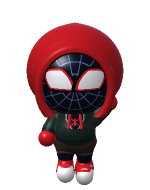
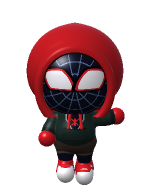
Pet: tiny toy blocks, web shot from his hand, dizzy landings more often

Changed region(s): [[0.64, 0.5, 0.8533, 0.6842], [0.6133, 0.5526, 0.6933, 0.6053]]

diff --git a/spidy/ui/pet.py b/spidy/ui/pet.py
@@ -748,7 +748,7 @@ class DesktopPet(QWidget):
                 x0, x1 = self.boxes.play_area(self._area())
                 self.start_jump(QPointF(self._rng.uniform(x0, x1), self._floor() - self._rng.uniform(0, 40)), -1)
             return
-        if self._near_corner() and self._rng.random() < 0.38:   # hop up onto a toy box
+        if False:                                               # tiny toys: he plays beside them, no climbing
             i = self._rng.randrange(len(self.boxes.tops(self._area())))
             self.start_jump(self.boxes.tops(self._area())[i], i)
             return
@@ -1082,7 +1082,7 @@ class DesktopPet(QWidget):
             else:
                 self.vx = self.vy = 0.0
                 self.spin = 0.0
-                hard = self.peak_speed > 700
+                hard = self.peak_speed > 520 or (self.peak_speed > 220 and self._rng.random() < 0.55)
                 self.peak_speed = 0.0
                 if hard:
                     self._set_state("dizzy", 2.6)
@@ -1554,7 +1554,7 @@ class PetBoxes(QWidget):
     """A little stack of 3D-shaded toy boxes in the bottom-right corner: his play spot."""
 
     BOXES = [  # (x offset from the right edge, width, height, kind) -- left to right
-        (300, 66, 52, "toy"), (214, 92, 70, "cardboard"), (214 - 6, 70, 46, "cardboard_top"), (110, 54, 54, "blue")]
+        (236, 18, 15, "toy"), (196, 24, 20, "cardboard"), (196 - 3, 17, 13, "cardboard_top"), (150, 16, 16, "blue")]
 
     def __init__(self) -> None:
         super().__init__(None)

diff --git a/scripts/render_pet_sprites.py b/scripts/render_pet_sprites.py
@@ -531,7 +531,7 @@ def upside(i, n):                   # rendered upright; the pet rotates it 180 d
 
 
 def shoot(i, n):
-    return Pose(arm_r=(25, 140, 0), arm_l=(10, 25, 30), hip_l=12, knee_l=10, hip_r=-8, knee_r=12, lean=-3)
+    return Pose(arm_r=(60, 100, -10), arm_l=(10, 25, 30), hip_l=12, knee_l=10, hip_r=-8, knee_r=12, lean=-3)   # arm out, away from the face
 
 
 def lounge(i, n):                   # rendered upright; rotated to lie in the hammock / bed
